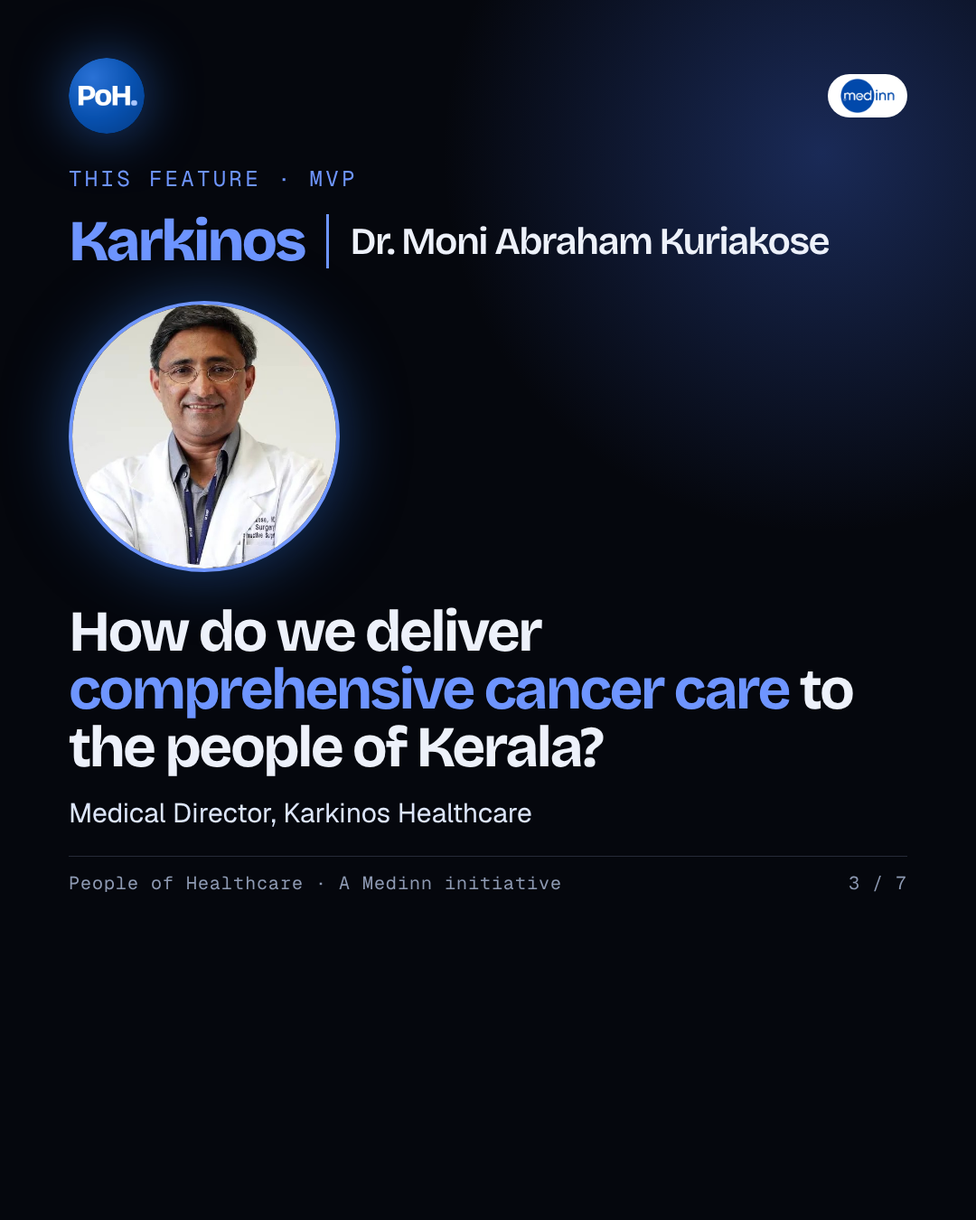
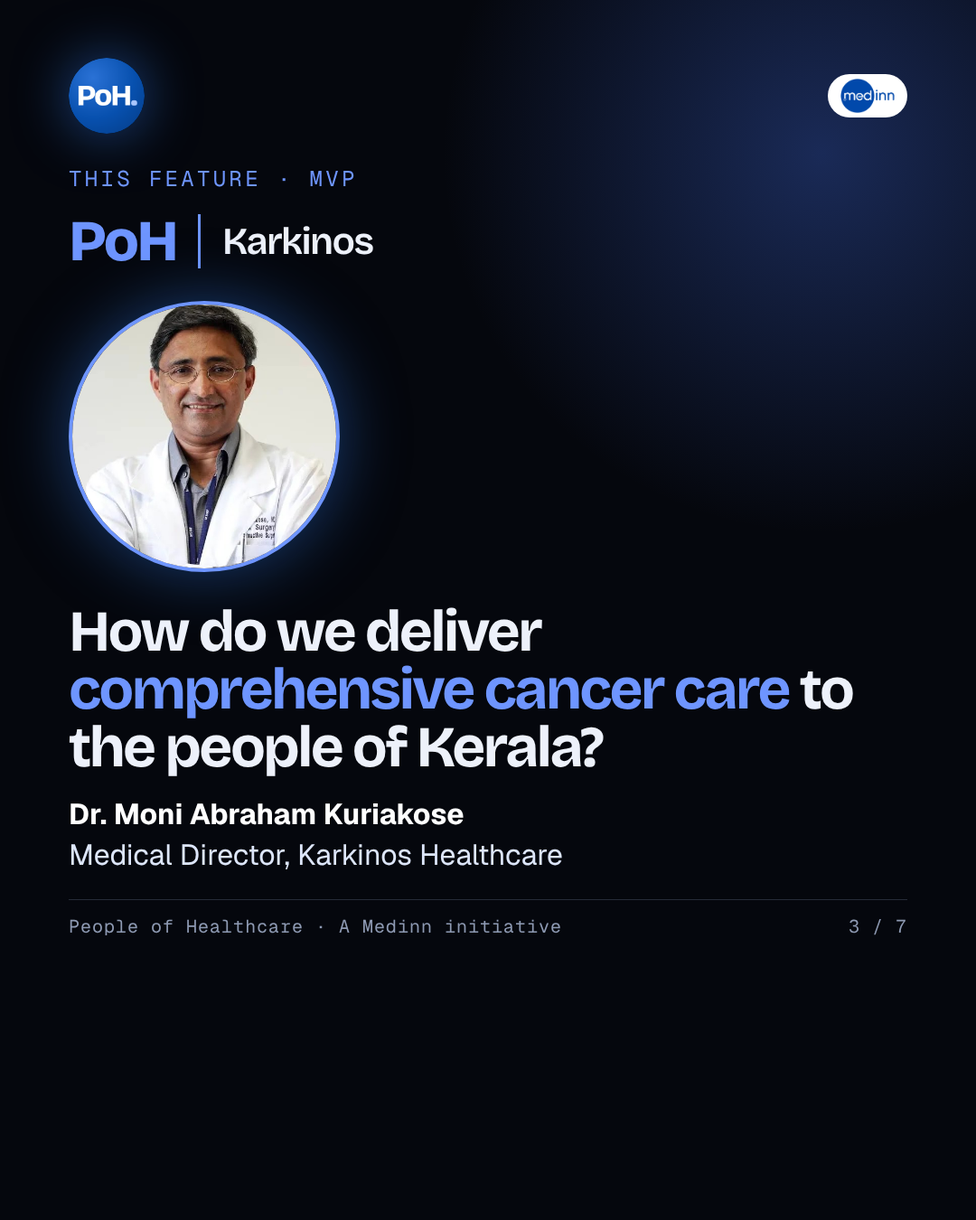
PoH: Moni feature live (approved), header PoH | Karkinos, new og image, poster and carousel updated
Claude-Session: https://claude.ai/code/session_01W3TbE8YKBoTijxvT3pRDYX

Changed region(s): [[0.0611, 0.6533, 0.5806, 0.7778], [0.0917, 0.1867, 0.8556, 0.2178]]

diff --git a/editorial/poh/ig-carousel.html b/editorial/poh/ig-carousel.html
@@ -39,4 +39,4 @@ li i{font-style:normal;font-family:B;font-weight:800;font-size:44px;color:#6E95F
 .qc b{font-family:B;font-size:36px;letter-spacing:-.03em;line-height:1.08}.qc p{font-size:24px;line-height:1.3;color:#DDE6FA}
 .qr{background:#fff;padding:12px;border-radius:16px;line-height:0}.qr img{width:230px;height:230px;display:block}
 .qc small{font-family:GM;font-size:17px;letter-spacing:0;color:rgba(237,241,250,.75)}
-</style></head><body><div class="s" id="s1"><div class="glow"></div><div class="top"><img class="mk" src="../../poh-mark.png" alt=""><img class="lg" src="../../medinn-logo.png" alt="Medinn"></div><p class="k">A Medinn initiative · Kerala</p><h1 class="big" style="font-size:118px;margin-top:40px"><em>People</em> of Healthcare</h1><p class="p" style="font-size:42px;color:#fff;font-family:B;letter-spacing:-.02em;line-height:1.2">Connecting with the MVPs of healthcare and MedTech in Kerala.</p><p class="p">This week: a conversation on cancer care with Dr. Moni Abraham Kuriakose, Karkinos Healthcare.</p><div class="sw"><span>Swipe</span><span>1 / 7</span></div></div><div class="s" id="s2"><div class="glow"></div><div class="top"><img class="mk" src="../../poh-mark.png" alt=""><img class="lg" src="../../medinn-logo.png" alt="Medinn"></div><p class="k">The initiative</p><h2 class="h2">Building bridges between <em>startups and hospitals.</em></h2><p class="p">People of Healthcare is how Medinn is connecting with 50 of the people building and leading healthcare and MedTech in Kerala.</p><div class="card"><small>What we do</small><p>Understand the challenges they face, and the bridges that need to be built.</p></div><div class="card"><small>Why</small><p>To widen adoption and collaboration between startups, clinicians and hospitals.</p></div><div class="card f"><small>How</small><p>Conversations first. Every feature is shared with the person for approval before it goes out.</p></div><div class="foot"><span>People of Healthcare · A Medinn initiative</span><span>2 / 7</span></div></div><div class="s" id="s3"><div class="glow"></div><div class="top"><img class="mk" src="../../poh-mark.png" alt=""><img class="lg" src="../../medinn-logo.png" alt="Medinn"></div><p class="k">This feature · MVP</p><div class="lock"><span class="co">Karkinos</span><i></i><b>Dr. Moni Abraham Kuriakose</b></div><img class="ph" src="../../moni-abraham-kuriakose.jpg" alt=""><h2 class="h2" style="font-size:64px;margin-top:34px">How do we deliver <em>comprehensive cancer care</em> to the people of Kerala?</h2><p class="p" style="margin-top:20px;font-size:30px">Medical Director, Karkinos Healthcare</p><div class="foot"><span>People of Healthcare · A Medinn initiative</span><span>3 / 7</span></div></div><div class="s" id="s4"><div class="glow"></div><div class="top"><img class="mk" src="../../poh-mark.png" alt=""><img class="lg" src="../../medinn-logo.png" alt="Medinn"></div><p class="k">Why it matters</p><div class="stat">61,175</div><h2 class="h2" style="font-size:56px;margin-top:20px">estimated new cancer cases in Kerala in 2024.</h2><p class="p">About 170 per lakh people, against about 110 nationally, the highest rate in the country.</p><p class="p" style="font-size:24px;color:#8E9AB3;margin-top:auto">Source: Lok Sabha reply, 5 Dec 2025, as reported by The Week (17 Dec 2025); ICMR-NCRP estimates.</p><div class="foot"><span>People of Healthcare · A Medinn initiative</span><span>4 / 7</span></div></div><div class="s" id="s5"><div class="glow"></div><div class="top"><img class="mk" src="../../poh-mark.png" alt=""><img class="lg" src="../../medinn-logo.png" alt="Medinn"></div><p class="k">The model</p><h2 class="h2" style="font-size:64px">Care starts at the <em>community clinic.</em></h2><svg viewBox="0 0 900 430" width="100%" style="margin-top:26px;position:relative"><g stroke="#6E95FF" stroke-width="3" stroke-opacity=".6"><line x1="450" y1="215" x2="120" y2="70"/><line x1="450" y1="215" x2="120" y2="360"/><line x1="450" y1="215" x2="780" y2="70"/><line x1="450" y1="215" x2="780" y2="360"/><line x1="450" y1="215" x2="60" y2="215"/><line x1="450" y1="215" x2="840" y2="215"/></g><circle cx="450" cy="215" r="110" fill="#1C3B9A" stroke="#6E95FF" stroke-width="3"/><text x="450" y="205" text-anchor="middle" fill="#fff" font-family="Bricolage,B,sans-serif" font-weight="700" font-size="30">Comprehensive</text><text x="450" y="242" text-anchor="middle" fill="#fff" font-family="Bricolage,B,sans-serif" font-weight="700" font-size="30">cancer centre</text><g fill="#0D1220" stroke="#6E95FF" stroke-width="2"><circle cx="120" cy="70" r="46"/><circle cx="120" cy="360" r="46"/><circle cx="780" cy="70" r="46"/><circle cx="780" cy="360" r="46"/><circle cx="60" cy="215" r="40"/><circle cx="840" cy="215" r="40"/></g><g fill="#B4C8FF" font-family="Geist Mono,monospace" font-size="17" text-anchor="middle"><text x="120" y="76">clinic</text><text x="120" y="366">clinic</text><text x="780" y="76">clinic</text><text x="780" y="366">clinic</text><text x="60" y="221">clinic</text><text x="840" y="221">clinic</text></g></svg><p class="p" style="font-size:30px;margin-top:10px">Karkinos calls it <b>distributed cancer care</b>: one platform from screening and diagnosis to treatment and follow-up, taking care out of the four walls of the hospital. A comprehensive cancer centre is the vision at the heart of the network. He says it has served about <b>3 million patients</b>.</p><div class="foot"><span>People of Healthcare · A Medinn initiative</span><span>5 / 7</span></div></div><div class="s" id="s6"><div class="glow"></div><div class="top"><img class="mk" src="../../poh-mark.png" alt=""><img class="lg" src="../../medinn-logo.png" alt="Medinn"></div><p class="k">Bottleneck and bridges</p><h2 class="h2" style="font-size:64px">Follow-up is where <em>patients get lost.</em></h2><div class="card"><small>The bottleneck</small><p>Large cancer centres were slow to adopt standardised care, and have little incentive to send patients back to community clinics for follow-up closer to home.</p></div><div class="card"><small>Bridge 1</small><p>Digital health in primary health clinics.</p></div><div class="card"><small>Bridge 2</small><p>ABDM adoption in hospitals, so a patient's records move with them.</p></div><div class="card f"><small>The future he sees</small><p>More digital adoption. AI helping democratise quality cancer care.</p></div><div class="foot"><span>People of Healthcare · A Medinn initiative</span><span>6 / 7</span></div></div><div class="s" id="s7"><div class="glow"></div><div class="top"><img class="mk" src="../../poh-mark.png" alt=""><img class="lg" src="../../medinn-logo.png" alt="Medinn"></div><p class="k">The ask</p><h2 class="h2" style="font-size:78px">Know someone whose work deserves to be <em>seen?</em></h2><p class="p">Nominate them. Or tell us your own story. We would like to feature it, and help build the bridges between people who should be working together.</p><div class="qrs"><div class="qc"><b>Nominate someone</b><div class="qr"><img src="qr-form.png" alt=""></div><small>medinn.in/people-of-healthcare</small></div><div class="qc w"><b>Share your own story</b><div class="qr"><img src="qr-mvp.png" alt=""></div><small>medinn.in/people-of-healthcare-mvp</small></div></div><div class="sw" style="margin-top:30px"><span>Dr. Sidharth Narayanan · GMC Kozhikode</span><span>7 / 7</span></div></div></body></html>
+</style></head><body><div class="s" id="s1"><div class="glow"></div><div class="top"><img class="mk" src="../../poh-mark.png" alt=""><img class="lg" src="../../medinn-logo.png" alt="Medinn"></div><p class="k">A Medinn initiative · Kerala</p><h1 class="big" style="font-size:118px;margin-top:40px"><em>People</em> of Healthcare</h1><p class="p" style="font-size:42px;color:#fff;font-family:B;letter-spacing:-.02em;line-height:1.2">Connecting with the MVPs of healthcare and MedTech in Kerala.</p><p class="p">This week: a conversation on cancer care with Dr. Moni Abraham Kuriakose, Karkinos Healthcare.</p><div class="sw"><span>Swipe</span><span>1 / 7</span></div></div><div class="s" id="s2"><div class="glow"></div><div class="top"><img class="mk" src="../../poh-mark.png" alt=""><img class="lg" src="../../medinn-logo.png" alt="Medinn"></div><p class="k">The initiative</p><h2 class="h2">Building bridges between <em>startups and hospitals.</em></h2><p class="p">People of Healthcare is how Medinn is connecting with 50 of the people building and leading healthcare and MedTech in Kerala.</p><div class="card"><small>What we do</small><p>Understand the challenges they face, and the bridges that need to be built.</p></div><div class="card"><small>Why</small><p>To widen adoption and collaboration between startups, clinicians and hospitals.</p></div><div class="card f"><small>How</small><p>Conversations first. Every feature is shared with the person for approval before it goes out.</p></div><div class="foot"><span>People of Healthcare · A Medinn initiative</span><span>2 / 7</span></div></div><div class="s" id="s3"><div class="glow"></div><div class="top"><img class="mk" src="../../poh-mark.png" alt=""><img class="lg" src="../../medinn-logo.png" alt="Medinn"></div><p class="k">This feature · MVP</p><div class="lock"><span class="co">PoH</span><i></i><b>Karkinos</b></div><img class="ph" src="../../moni-abraham-kuriakose.jpg" alt=""><h2 class="h2" style="font-size:64px;margin-top:34px">How do we deliver <em>comprehensive cancer care</em> to the people of Kerala?</h2><p class="p" style="margin-top:20px;font-size:32px"><b>Dr. Moni Abraham Kuriakose</b><br>Medical Director, Karkinos Healthcare</p><div class="foot"><span>People of Healthcare · A Medinn initiative</span><span>3 / 7</span></div></div><div class="s" id="s4"><div class="glow"></div><div class="top"><img class="mk" src="../../poh-mark.png" alt=""><img class="lg" src="../../medinn-logo.png" alt="Medinn"></div><p class="k">Why it matters</p><div class="stat">61,175</div><h2 class="h2" style="font-size:56px;margin-top:20px">estimated new cancer cases in Kerala in 2024.</h2><p class="p">About 170 per lakh people, against about 110 nationally, the highest rate in the country.</p><p class="p" style="font-size:24px;color:#8E9AB3;margin-top:auto">Source: Lok Sabha reply, 5 Dec 2025, as reported by The Week (17 Dec 2025); ICMR-NCRP estimates.</p><div class="foot"><span>People of Healthcare · A Medinn initiative</span><span>4 / 7</span></div></div><div class="s" id="s5"><div class="glow"></div><div class="top"><img class="mk" src="../../poh-mark.png" alt=""><img class="lg" src="../../medinn-logo.png" alt="Medinn"></div><p class="k">The model</p><h2 class="h2" style="font-size:64px">Care starts at the <em>community clinic.</em></h2><svg viewBox="0 0 900 430" width="100%" style="margin-top:26px;position:relative"><g stroke="#6E95FF" stroke-width="3" stroke-opacity=".6"><line x1="450" y1="215" x2="120" y2="70"/><line x1="450" y1="215" x2="120" y2="360"/><line x1="450" y1="215" x2="780" y2="70"/><line x1="450" y1="215" x2="780" y2="360"/><line x1="450" y1="215" x2="60" y2="215"/><line x1="450" y1="215" x2="840" y2="215"/></g><circle cx="450" cy="215" r="110" fill="#1C3B9A" stroke="#6E95FF" stroke-width="3"/><text x="450" y="205" text-anchor="middle" fill="#fff" font-family="Bricolage,B,sans-serif" font-weight="700" font-size="30">Comprehensive</text><text x="450" y="242" text-anchor="middle" fill="#fff" font-family="Bricolage,B,sans-serif" font-weight="700" font-size="30">cancer centre</text><g fill="#0D1220" stroke="#6E95FF" stroke-width="2"><circle cx="120" cy="70" r="46"/><circle cx="120" cy="360" r="46"/><circle cx="780" cy="70" r="46"/><circle cx="780" cy="360" r="46"/><circle cx="60" cy="215" r="40"/><circle cx="840" cy="215" r="40"/></g><g fill="#B4C8FF" font-family="Geist Mono,monospace" font-size="17" text-anchor="middle"><text x="120" y="76">clinic</text><text x="120" y="366">clinic</text><text x="780" y="76">clinic</text><text x="780" y="366">clinic</text><text x="60" y="221">clinic</text><text x="840" y="221">clinic</text></g></svg><p class="p" style="font-size:30px;margin-top:10px">Karkinos calls it <b>distributed cancer care</b>: one platform from screening and diagnosis to treatment and follow-up, taking care out of the four walls of the hospital. A comprehensive cancer centre is the vision at the heart of the network. He says it has served about <b>3 million patients</b>.</p><div class="foot"><span>People of Healthcare · A Medinn initiative</span><span>5 / 7</span></div></div><div class="s" id="s6"><div class="glow"></div><div class="top"><img class="mk" src="../../poh-mark.png" alt=""><img class="lg" src="../../medinn-logo.png" alt="Medinn"></div><p class="k">Bottleneck and bridges</p><h2 class="h2" style="font-size:64px">Follow-up is where <em>patients get lost.</em></h2><div class="card"><small>The bottleneck</small><p>Large cancer centres were slow to adopt standardised care, and have little incentive to send patients back to community clinics for follow-up closer to home.</p></div><div class="card"><small>Bridge 1</small><p>Digital health in primary health clinics.</p></div><div class="card"><small>Bridge 2</small><p>ABDM adoption in hospitals, so a patient's records move with them.</p></div><div class="card f"><small>The future he sees</small><p>More digital adoption. AI helping democratise quality cancer care.</p></div><div class="foot"><span>People of Healthcare · A Medinn initiative</span><span>6 / 7</span></div></div><div class="s" id="s7"><div class="glow"></div><div class="top"><img class="mk" src="../../poh-mark.png" alt=""><img class="lg" src="../../medinn-logo.png" alt="Medinn"></div><p class="k">The ask</p><h2 class="h2" style="font-size:78px">Know someone whose work deserves to be <em>seen?</em></h2><p class="p">Nominate them. Or tell us your own story. We would like to feature it, and help build the bridges between people who should be working together.</p><div class="qrs"><div class="qc"><b>Nominate someone</b><div class="qr"><img src="qr-form.png" alt=""></div><small>medinn.in/people-of-healthcare</small></div><div class="qc w"><b>Share your own story</b><div class="qr"><img src="qr-mvp.png" alt=""></div><small>medinn.in/people-of-healthcare-mvp</small></div></div><div class="sw" style="margin-top:30px"><span>Dr. Sidharth Narayanan · GMC Kozhikode</span><span>7 / 7</span></div></div></body></html>

diff --git a/poh-moni-abraham-kuriakose.html b/poh-moni-abraham-kuriakose.html
@@ -5,18 +5,20 @@
 <meta name="viewport" content="width=device-width, initial-scale=1, viewport-fit=cover">
 <meta name="color-scheme" content="dark">
 <meta name="theme-color" content="#05070D">
-<meta name="robots" content="noindex">
 <title>How do we deliver comprehensive cancer care to the people of Kerala? | People of Healthcare</title>
 <meta name="description" content="People of Healthcare MVP: Dr. Moni Abraham Kuriakose of Karkinos Healthcare on taking cancer care out of the four walls of the hospital and into the community.">
 <meta property="og:title" content="How do we deliver comprehensive cancer care to the people of Kerala?">
 <meta property="og:description" content="People of Healthcare MVP: Dr. Moni Abraham Kuriakose, Karkinos Healthcare.">
-<meta property="og:image" content="https://medinn.in/people-of-healthcare-og.jpg">
+<meta property="og:image" content="https://medinn.in/poh-moni-abraham-kuriakose-og.jpg">
+<meta property="og:image:width" content="1200">
+<meta property="og:image:height" content="630">
+<meta property="og:type" content="article">
+<meta name="twitter:card" content="summary_large_image">
 <link rel="icon" href="poh-mark.png">
 <link rel="preload" href="bricolage.woff2" as="font" type="font/woff2" crossorigin>
 <link rel="preload" href="geist.woff2" as="font" type="font/woff2" crossorigin>
 <link rel="stylesheet" href="story.css">
 <style>
-.draft{position:fixed;left:0;right:0;bottom:0;z-index:80;background:#6E95FF;color:#05070D;text-align:center;font-family:var(--mono);font-size:12.5px;letter-spacing:.08em;text-transform:uppercase;padding:10px 14px}
 .a-hero{padding:clamp(120px,14vw,170px) 0 10px}
 .a-hero .tag{display:inline-block;background:var(--acc);color:var(--acc-tx);font-family:var(--mono);font-weight:700;font-size:12.5px;letter-spacing:.14em;text-transform:uppercase;padding:7px 14px;border-radius:999px}
 .a-hero h1{font-size:clamp(36px,5.4vw,74px);letter-spacing:-.05em;line-height:.98;max-width:13em;margin-top:26px}
@@ -51,7 +53,6 @@
 </style>
 </head>
 <body>
-<div class="draft">Review copy: awaiting Dr. Kuriakose's approval. Not for sharing yet.</div>
 <header class="bar">
  <a class="id" href="/" aria-label="Medinn home"><img src="medinn-logo.png" alt="Medinn"><span><b>Medinn</b> &middot; People of Healthcare</span></a>
  <div class="r"><a class="btn ghost" href="/people-of-healthcare">About the initiative</a></div>
@@ -59,10 +60,10 @@
 <main>
 <section class="a-hero"><div class="wrap">
  <span class="tag">People of Healthcare &middot; MVP</span>
- <div class="lock"><span class="co">Karkinos</span><i aria-hidden="true"></i><b>Dr. Moni Abraham Kuriakose</b></div>
+ <div class="lock"><span class="co">PoH</span><i aria-hidden="true"></i><b>Karkinos</b></div>
  <h1>How do we deliver <em>comprehensive cancer care</em> to the people of Kerala?</h1>
  <p class="deck">Taking cancer care out of the four walls of the hospital: a conversation with Dr. Moni Abraham Kuriakose of Karkinos Healthcare.</p>
- <div class="by"><img src="moni-abraham-kuriakose.jpg" alt="Dr. Moni Abraham Kuriakose"><div><b>Medical Director</b><span>Karkinos Healthcare</span></div></div>
+ <div class="by"><img src="moni-abraham-kuriakose.jpg" alt="Dr. Moni Abraham Kuriakose"><div><b>Dr. Moni Abraham Kuriakose</b><span>Medical Director, Karkinos Healthcare</span></div></div>
  <div class="stats"><span class="hl">3 million patients (as shared by Dr. Kuriakose)</span><span>Distributed cancer care</span><span>Community as a cancer centre</span></div>
 </div></section>
 

diff --git a/editorial/poh/feature-moni-poster.html b/editorial/poh/feature-moni-poster.html
@@ -29,7 +29,7 @@ li i{font-style:normal;font-family:B;font-weight:800;font-size:44px;color:#6E95F
 .who h1{font-family:B;font-weight:700;font-size:60px;line-height:1;letter-spacing:-.045em}
 .who p{font-size:28px;line-height:1.25;color:#DDE6FA;margin-top:8px}
 .chip{display:inline-block;margin-top:14px;background:#6E95FF;color:#05070D;font-family:B;font-weight:700;font-size:28px;padding:8px 20px;border-radius:999px}
-.blk{margin-top:13px;background:#0D1220;border:1px solid rgba(190,210,255,.2);border-radius:20px;padding:15px 24px;position:relative}
+.blk{margin-top:10px;background:#0D1220;border:1px solid rgba(190,210,255,.2);border-radius:20px;padding:15px 24px;position:relative}
 .blk.f{background:linear-gradient(150deg,#1C3B9A,#0F1E52);border-color:transparent}
 .blk small{display:block;font-family:GM;font-size:18px;letter-spacing:.12em;text-transform:uppercase;color:#8FB0FF}.blk.f small{color:#cfe0ff}
 .blk p{font-size:26px;line-height:1.3;margin-top:5px;font-weight:500}
@@ -38,9 +38,9 @@ li i{font-style:normal;font-family:B;font-weight:800;font-size:44px;color:#6E95F
 </style></head><body><div class="s"><div class="glow"></div>
 <div class="top"><img class="mk" src="../../poh-mark.png" alt=""><img class="lg" src="../../medinn-logo.png" alt="Medinn"></div>
 <p class="k" style="margin-top:22px">People of Healthcare · MVP feature</p>
-<div class="lock"><span class="co">Karkinos</span><i></i><b>Dr. Moni Abraham Kuriakose</b></div>
+<div class="lock"><span class="co">PoH</span><i></i><b>Karkinos</b></div>
 <h1 class="hook">How do we deliver <em>comprehensive cancer care</em> to the people of Kerala?</h1>
-<div class="who"><img class="ph" src="../../moni-abraham-kuriakose.jpg" alt=""><div><p style="margin-top:0;font-size:28px;font-weight:600">Medical Director, Karkinos Healthcare</p><span class="chip" style="font-size:24px;margin-top:8px">3 million patients</span></div></div>
+<div class="who"><img class="ph" src="../../moni-abraham-kuriakose.jpg" alt=""><div><p style="margin-top:0;font-size:30px;font-weight:600">Dr. Moni Abraham Kuriakose</p><p style="margin-top:2px;font-size:25px">Medical Director, Karkinos Healthcare</p><span class="chip" style="font-size:24px;margin-top:8px">3 million patients</span></div></div>
 <div class="blk"><small>Building</small><p>Distributed cancer care: a platform from screening and diagnosis to treatment and follow-up, taking care out of the hospital and into the community.</p></div>
 <div class="blk"><small>The bottleneck</small><p>Large tertiary cancer centres were slow to adopt standardised care, and have little incentive to send patients back to community cancer clinics for follow-up closer to home.</p></div>
 <div class="blk"><small>Bridges to build</small><p>Digital health in primary clinics, and ABDM adoption in hospitals.</p></div>

diff --git a/editorial/poh/moni-og.html b/editorial/poh/moni-og.html
@@ -1,0 +1,9 @@
+<!doctype html><html><head><meta charset="utf-8"><style>@font-face{font-family:B;src:url(../../bricolage.woff2);font-weight:200 800}@font-face{font-family:G;src:url(../../geist.woff2);font-weight:100 900}@font-face{font-family:GM;src:url(../../geist-mono.woff2);font-weight:100 900}
+*{margin:0;box-sizing:border-box}body{background:#05070D}.o{width:1200px;height:630px;background:#05070D;color:#EDF1FA;position:relative;overflow:hidden;display:grid;grid-template-columns:420px 1fr;font-family:G}
+.o:before{content:"";position:absolute;right:-250px;top:-250px;width:800px;height:800px;border-radius:50%;background:radial-gradient(circle,rgba(66,110,230,.34),transparent 66%)}
+.ph{width:100%;height:100%;object-fit:cover;object-position:50% 20%}
+.t{padding:46px 56px;display:flex;flex-direction:column;position:relative}
+.k{font-family:GM;font-size:20px;letter-spacing:.14em;text-transform:uppercase;color:#6E95FF}
+.l{display:flex;align-items:center;gap:18px;margin-top:20px}.l .co{font-family:B;font-weight:800;font-size:44px;color:#6E95FF;letter-spacing:-.04em}.l i{width:3px;height:40px;background:#6E95FF}.l b{font-family:B;font-weight:600;font-size:40px;letter-spacing:-.04em}
+h1{font-family:B;font-weight:700;font-size:60px;line-height:1;letter-spacing:-.045em;margin-top:26px}h1 em{font-style:normal;color:#6E95FF}
+.f{margin-top:auto;font-family:GM;font-size:18px;color:#8E9AB3;letter-spacing:.05em}</style></head><body><div class="o" id="o"><img class="ph" src="../../moni-abraham-kuriakose.jpg"><div class="t"><p class="k">People of Healthcare · MVP</p><div class="l"><span class="co">PoH</span><i></i><b>Karkinos</b></div><h1>How do we deliver <em>comprehensive cancer care</em> to the people of Kerala?</h1><p class="f">Dr. Moni Abraham Kuriakose · medinn.in</p></div></div></body></html>

diff --git a/editorial/poh/render-moni.js b/editorial/poh/render-moni.js
@@ -1,6 +1,6 @@
 const { chromium } = require('playwright'); const path=require('path');
 (async()=>{const b=await chromium.launch({args:['--allow-file-access-from-files']});const p=await b.newPage({viewport:{width:1080,height:1350}});
-for(const [f,o] of [['feature-moni-poster.html','PoH-feature-Moni-Kuriakose-DRAFT.png'],['asks02-named.html','poh-asks02-named-DRAFT.png'],['asks02-anon.html','poh-asks02-anon-DRAFT.png']]){
+for(const [f,o] of [['feature-moni-poster.html','PoH-feature-Moni-Kuriakose.png'],['asks02-named.html','poh-asks02-named-DRAFT.png'],['asks02-anon.html','poh-asks02-anon-DRAFT.png']]){
 await p.goto('file://'+path.join(__dirname,f));await p.evaluate(()=>document.fonts.ready);await p.waitForTimeout(300);
 console.log(f,'overflow',await p.evaluate(()=>{const s=document.querySelector('.s');return s.scrollHeight>s.clientHeight}));
 await p.screenshot({path:path.join(__dirname,'export',o)});}

diff --git a/editorial/poh/render-moni-og.js b/editorial/poh/render-moni-og.js
@@ -1,0 +1,4 @@
+const { chromium } = require('playwright'); const path=require('path');
+(async()=>{const b=await chromium.launch({args:['--allow-file-access-from-files']});const p=await b.newPage({viewport:{width:1200,height:630}});
+await p.goto('file://'+path.join(__dirname,'moni-og.html'));await p.evaluate(()=>document.fonts.ready);await p.waitForTimeout(300);
+await p.locator('#o').screenshot({path:path.join(__dirname,'export','moni-og.png')});await b.close()})()

diff --git a/editorial/poh/HANDOFF.md b/editorial/poh/HANDOFF.md
@@ -13,7 +13,7 @@ Tagline: "Connecting with the MVPs of healthcare and MedTech in Kerala." Owner's
 - **/people-of-healthcare-questions** (`people-of-healthcare-questions.html`, public, noindex, not in nav): fill-in page for people who replied. Name, venture, one scale number, the 7 questions. They send by WhatsApp (+91 94005 13128) or email, or copy. No server storage; answers only live in their browser until sent. Link it only in messages.
 - **/people-of-healthcare-mvp** (`people-of-healthcare-mvp.html`, public, noindex): fill-in page for MVPs/KOLs to be featured. Name, company, role, optional scale number, photo sent on WhatsApp, 11 questions (building, biggest project and highlights, bottlenecks, bridges, adoption and discovery, immediate need, access, future of healthcare, what needs to be done, who next, comments for Medinn and PoH). Same send options as the other fill-in pages. Text blocks (including audio-answer blocks) in `mvp-conversation.md`.
 - **/people-of-healthcare-share** (`people-of-healthcare-share.html`, public, noindex): second fill-in page with the 8-question set (biggest project; highlights you want the world to know; what are you building; immediate need; who to access; hospital ecosystem; what to build next in Kerala; who to speak to next). Same send options as the first page. Cards and copy blocks for this set are NOT built yet (pending owner OK).
-- **/poh-moni-abraham-kuriakose** (`poh-moni-abraham-kuriakose.html`, public URL, noindex, review banner at the bottom): first MVP feature article, Dr. Moni Abraham Kuriakose, Karkinos Healthcare, with his photo `moni-abraham-kuriakose.jpg` (supplied by owner; confirm source/permission with him). Review copy until he approves; then remove the `.draft` banner element and the noindex meta. No funding/investor ask in it. Header pattern for MVP features (owner decision): tag "People of Healthcare · MVP", then a text lockup "Company | Person name" (no company logos), then the title. Template for later MVP features. Poster: `editorial/poh/export/PoH-feature-Moni-Kuriakose-DRAFT.png` now has his photo.
+- **/poh-moni-abraham-kuriakose** (`poh-moni-abraham-kuriakose.html`, LIVE and indexable; cleared by Dr. Kuriakose 4 Nov 2026; own link-preview image `poh-moni-abraham-kuriakose-og.jpg` built from `editorial/poh/moni-og.html`): first MVP feature article, Dr. Moni Abraham Kuriakose, Karkinos Healthcare, with his photo `moni-abraham-kuriakose.jpg` (supplied by owner; confirm source/permission with him). No funding/investor ask in it. Header pattern for MVP features (owner decision, updated 4 Nov): tag "People of Healthcare · MVP", then a text lockup "PoH | Company" (no logos), then the title; the person's name sits with the photo below. Template for later MVP features. Poster: `editorial/poh/export/PoH-feature-Moni-Kuriakose-DRAFT.png` now has his photo.
 - **Logo**: `poh-mark.png` (blue), `poh-mark-navy.png`. Built from Bricolage 800, "PoH." with a pale-blue dot.
 - **Discovery form**: shown only when the server is configured. `api/nominate.js` writes to Notion. `GET /api/nominate` returns `{configured:true/false}`; the page reveals the form only if true. WhatsApp and email nomination buttons always work (prefilled messages).
 

diff --git a/editorial/poh/features/moni-captions.md b/editorial/poh/features/moni-captions.md
@@ -1,5 +1,5 @@
 # Captions for the Dr. Moni Abraham Kuriakose / Karkinos feature (v2, natural tone, with Kerala numbers)
-Post ONLY after Dr. Kuriakose approves the article and photo, and the review banner/noindex are removed. Tag Dr. Moni Abraham Kuriakose and Karkinos Healthcare with their real handles.
+Cleared by Dr. Kuriakose (owner confirmed, 4 Nov 2026); article page is live without the review banner. Tag Dr. Moni Abraham Kuriakose and Karkinos Healthcare with their real handles.
 Links: article https://medinn.in/poh-moni-abraham-kuriakose · share your own story https://medinn.in/people-of-healthcare-mvp · nominate someone https://medinn.in/people-of-healthcare
 
 ## Citations (what was actually checked)
